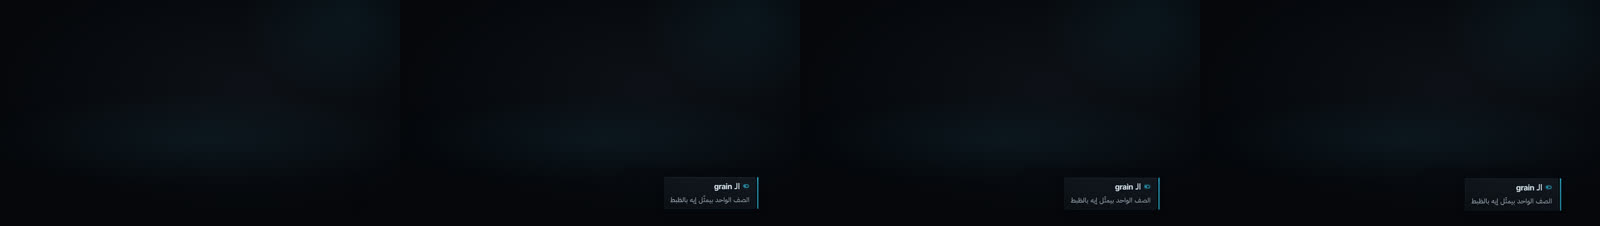
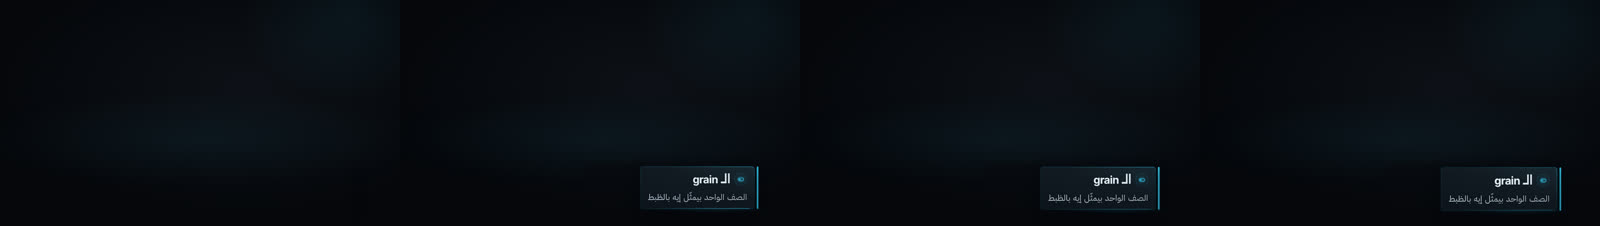
P7 typeui: LowerThird finished (rim-lit glass plate, badge glyph, foot sweep, floor pool; snap PASS det 0 qa 0, baselines pending-critic; perf lite 0.062 / standard 0.080 / hero 0.083 box s/frame; Arabic QA PASS)
Claude-Session: https://claude.ai/code/session_01VrU9wxU8GmuhdhWAAHnnQ8

Changed region(s): [[0.9062, 0.7124, 1.0, 0.9602], [0.4062, 0.7124, 0.5, 0.9292], [0.6562, 0.7124, 0.75, 0.9292]]

diff --git a/studio/src/components/LowerThird/LowerThird.tsx b/studio/src/components/LowerThird/LowerThird.tsx
@@ -16,8 +16,8 @@ import type {DcComponent, DcProps} from '../../spec/types';
 import {Mx, dirOf, exitFade, exitT, filmF} from '../_typeui/kit';
 import type {Props} from './schema';
 
-const SUB_K = SIZE.label / SIZE.body; // subtitle one step below the title (32 / 40)
-const PAD = {x: 0.7, y: 0.42}; // plate padding in em of the title size
+const SUB_K = SIZE.body / SIZE.sub; // subtitle one step below the title (40 / 56)
+const PAD = {x: 0.62, y: 0.4}; // plate padding in em of the title size
 const MAX_W = 0.66; // plate never wider than 2/3 of the slot (it is a caption, not a banner)
 
 const accentOf = (k: Props['kind']): string => (k === 'term' ? C.signal : C.ink2);
@@ -53,7 +53,7 @@ const Glyph: React.FC<{kind: Props['kind']; color: string; s: number}> = ({kind,
 
 export const LowerThirdView: React.FC<DcProps<Props>> = ({props, ctx}) => {
   const ref = useRef<HTMLDivElement>(null);
-  const size = SIZE.body;
+  const size = SIZE.sub;
   const fit = useAutoFit(ref, {id: ctx.id, size, min: SIZE.labelMin, maxW: ctx.box.w * MAX_W, maxH: ctx.box.h, key: `${props.title}|${props.subtitle ?? ''}|${props.kind}`});
   const fs = fit.size;
   const ss = Math.max(SIZE.labelMin, Math.round(fs * SUB_K));
@@ -67,9 +67,14 @@ export const LowerThirdView: React.FC<DcProps<Props>> = ({props, ctx}) => {
   const sub = props.subtitle ? revealStyle(t - filmF(2, ctx.fps), ctx.fps, 'label', 'rtl', ex) : null;
   const out = exitFade(ctx);
   const k = 0.55 + 0.45 * bar + ctx.mod.glow;
+  const sweep = revealProgress(t - filmF(2, ctx.fps), presetFrames('label', ctx.fps) + nA, ease.arrive); // foot light runs after the plate opens
+  const sweepDone = revealProgress(t - nA * 2 - presetFrames('label', ctx.fps), presetFrames('label', ctx.fps));
+  const rimLight = `linear-gradient(to bottom left, ${accent}${hex(0.9 * bar)} 0%, ${accent}${hex(0.28 * bar)} 40%, ${accent}${hex(0.1 + 0.08 * bar)} 100%)`;
   return (
     <div style={{position: 'absolute', left: ctx.box.x, top: ctx.box.y, width: ctx.box.w, height: ctx.box.h, display: 'flex', alignItems: 'flex-end', justifyContent: 'flex-end', opacity: out}}>
       <div style={{position: 'relative', display: 'flex', alignItems: 'stretch', flexDirection: 'row-reverse', transform: `translateX(${((1 - out) * fs * 0.6).toFixed(2)}px)`}}>
+        {/* soft light pool the plate casts on the floor of the frame (depth cue, ADR-003 LK-F) */}
+        <div aria-hidden style={{position: 'absolute', left: '-6%', right: '-12%', bottom: -Math.round(fs * 0.55), height: Math.round(fs * 0.9), background: `radial-gradient(closest-side ellipse at 60% 40%, ${accent}${hex(0.16 * plate)} 0%, ${accent}${hex(0.05 * plate)} 60%, ${accent}00 100%)`, pointerEvents: 'none'}} />
         {/* accent bar on the start (right) edge */}
         <div style={{width: Math.max(3, Math.round(fs * 0.11)), borderRadius: fs, background: accent, boxShadow: glow(accent, ctx.fx, 0.5 * k), transform: `scaleY(${bar.toFixed(4)})`, transformOrigin: 'center bottom', flex: 'none'}} />
         <div
@@ -78,12 +83,14 @@ export const LowerThirdView: React.FC<DcProps<Props>> = ({props, ctx}) => {
             marginRight: Math.round(fs * 0.22),
             padding: `${(PAD.y * fs).toFixed(1)}px ${(PAD.x * fs).toFixed(1)}px`,
             borderRadius: Math.round(fs * 0.22),
-            background: `linear-gradient(200deg, ${C.panel}${hex(0.92)}, ${C.ground}${hex(0.85)})`,
-            boxShadow: `inset -1px 1px 0 ${C.ink}${hex(0.16)}, 0 ${Math.round(fs * 0.3)}px ${Math.round(fs * 0.9)}px ${C.void}${hex(0.6)}`,
-            border: `1px solid ${accent}${hex(0.18)}`,
+            background: `linear-gradient(200deg, ${C.panel}${hex(0.92)}, ${C.ground}${hex(0.88)}) padding-box, ${rimLight} border-box`,
+            border: '1.5px solid transparent',
+            boxShadow: `inset 0 1px 0 ${C.ink}${hex(0.12)}, 0 ${Math.round(fs * 0.3)}px ${Math.round(fs * 0.9)}px ${C.void}${hex(0.6)}, 0 0 ${Math.round(ctx.fx.glowInner * 2.4 * k)}px ${accent}${hex(0.16 * plate)}`,
             clipPath: wipeClip(plate, 'rtl'),
           }}
         >
+          {/* emissive underline sweeping start -> end along the plate foot */}
+          <div aria-hidden style={{position: 'absolute', right: '4%', left: `${(96 - 92 * sweep).toFixed(2)}%`, bottom: 0, height: 2, borderRadius: 1, background: `linear-gradient(270deg, ${accent}${hex(0.9)}, ${accent}00)`, opacity: 1 - 0.55 * sweepDone}} />
           <div
             ref={ref}
             data-overflow={fit.overflow ? 1 : undefined}
@@ -91,8 +98,8 @@ export const LowerThirdView: React.FC<DcProps<Props>> = ({props, ctx}) => {
             style={{display: 'flex', flexDirection: 'column', alignItems: 'flex-start', width: 'max-content', outline: fit.overflow ? `2px dashed ${C.crit}` : undefined}}
           >
             <div style={{display: 'flex', alignItems: 'center', gap: Math.round(fs * 0.35)}}>
-              <div style={{opacity: bar}}>
-                <Glyph kind={props.kind} color={accent} s={Math.round(fs * 0.8)} />
+              <div style={{opacity: bar, display: 'flex', alignItems: 'center', justifyContent: 'center', width: Math.round(fs * 1.05), height: Math.round(fs * 1.05), borderRadius: '50%', border: `1.5px solid ${accent}${hex(0.45)}`, background: `radial-gradient(closest-side, ${accent}${hex(0.16)}, ${accent}00)`}}>
+                <Glyph kind={props.kind} color={accent} s={Math.round(fs * 0.6)} />
               </div>
               <div style={{fontSize: fs, lineHeight: lineHeightFor(props.title), color: C.ink, textShadow: `${halo}, ${glow(accent, ctx.fx, 0.3 * k)}`, whiteSpace: 'nowrap', transformOrigin: 'right center', ...title.style}}>
                 <Mx id={`${ctx.id}:title`} text={props.title} size={fs} weight={FONT.label.strong} />
@@ -122,10 +129,10 @@ export const LowerThirdView: React.FC<DcProps<Props>> = ({props, ctx}) => {
 
 /** Text-safe rect: the plate estimate at the bottom-right of the slot. */
 const textRect = (p: Props, box: Rect): Rect => {
-  const fs = SIZE.body;
+  const fs = SIZE.sub;
   const chars = Math.max(visLen(p.title) + 3, p.subtitle ? visLen(p.subtitle) * SUB_K : 0);
   const w = Math.min(box.w * MAX_W + fs, fs * 0.6 * chars + fs * 2.2);
-  const h = Math.min(box.h, fs * 2.4 + (p.subtitle ? SIZE.label * 2 : 0));
+  const h = Math.min(box.h, fs * 1.9 + (p.subtitle ? SIZE.body * 1.9 : 0));
   return {x: box.x + box.w - w, y: box.y + box.h - h, w, h};
 };
 

diff --git a/docs/p7/catalog_status/typeui.md b/docs/p7/catalog_status/typeui.md
@@ -3,3 +3,4 @@
 | Component | Status | Notes |
 |---|---|---|
 | EquationLine | implemented | One formula in ONE LTR isolate on a rim-lit glass slab (key rim from the upper right, drop shadow, 1.5 px frame-driven float). Operands mono ink, operators ink-3 with U+2212 minus, result signal at 1.25x with impact flash, CA on numerals only and an emissive underline drawn left to right; the slab warms when the result lands. Each term arrives on its own anchor (RV1) and unanchored terms inherit the next anchored one; hidden terms keep their layout, and the slab itself now arrives with the first term (no empty panel before the anchor). Each term is a `data-dc-part` target. 2D only, so hero = standard. Demo = NilePay success rate 4 / 6 = 66.67 % (d:5.2:7 context line, data contract). Baselines pending-critic. Snap PASS det 0 qa 0. Perf box s/frame at 3 slots: lite 0.069, standard 0.100, hero 0.096 (budgets 0.201 / 0.201 / 1.038). Arabic QA pass (Latin and numeral strings only). Open note: the demo has no Arabic operand. |
+| LowerThird | implemented | Broadcast-style caption plate for a source, term, speaker or location, anchored at the reading-start (right) edge of the lower-third slot. Title at `SIZE.sub` (auto-fit floor 28 px), subtitle at `SIZE.body`, one whole string each (Mx / LTR isolates, tatweel `الـgrain`). Light per ADR-003 LK-F: glass plate with a rim-lit gradient border (key from the upper right), emissive accent bar that grows on the anchor frame (RV1), plate wipes open right to left, kind glyph in a glowing badge (drawn SVG, no copy), foot-light sweep and a soft floor pool. `term` = signal accent; `source` / `speaker` / `location` = neutral ink2. Subtitle follows 2 film frames later on `label`. 2D only, so hero = standard. Demo = glossary term `الـgrain` with its tashkeel subtitle. Distinct from TermChip (centred emissive pill) and KineticWord (no plate). Baselines pending-critic. Snap PASS det 0 qa 0. Perf box s/frame at 3 slots: lite 0.062, standard 0.080, hero 0.083 (budgets 0.201 / 0.201 / 1.038). Arabic QA pass (title and subtitle). Open note: the demo carries no number, so no data-contract ref is needed. |
